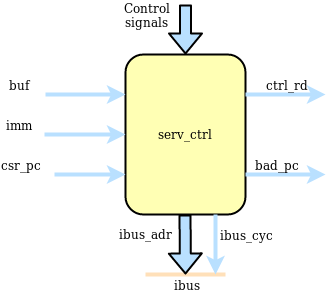
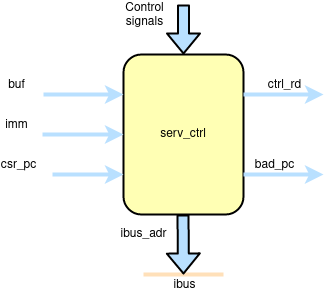
Move ibus_cyc handling to serv_state

diff --git a/doc/index.rst b/doc/index.rst
@@ -77,7 +77,7 @@ serv_ctrl
 
 .. image:: serv_ctrl.png
 
-serv_ctrl keeps track of the current PC and contains the logic needed to calculate the next PC. The PC is stored in shift register with a parellel output connected to the instruction bus. New instructions are fetched by asserting o_ibus_cyc until there is a response on i_ibus_ack. Instruction fetches occur when the reset signal is deasserted, which is what gets SERV started, or when the PC has finished updating its value.
+serv_ctrl keeps track of the current PC and contains the logic needed to calculate the next PC. The PC is stored in shift register with a parellel output connected to the instruction bus.
 
 The new PC can come from three sources. For normal instructions, it is incremented by four, which is the next 32-bit address. Jumps can be absolute or relative to the current PC. Absolute jumps are precalculated in serv_bufreg and written directly to the PC. PC relative jumps have the offset part precalculated in serv_bufreg which gets added to the current PC before storing as the new PC. The third source for the new PC comes from the CSR registers when entering or returning traps.
 
@@ -120,7 +120,9 @@ serv_rf_ram_if converts between the SERV RF IF and the serv_rf_ram interface
 serv_state
 ^^^^^^^^^^
 
-serv_state keeps track of the state for the core and contains all dynamic control signals during an operations life time. Also controls the accesses towards the RF and dbus
+serv_state keeps track of the state for the core and contains all dynamic control signals during an operations life time. Also controls the accesses towards the RF, ibus and dbus
+
+New instructions are fetched by asserting o_ibus_cyc until there is a response on i_ibus_ack. Instruction fetches occur when the reset signal is deasserted, which is what gets SERV started, or when the PC has finished updating its value.
 
 shift_reg
 ^^^^^^^^^
